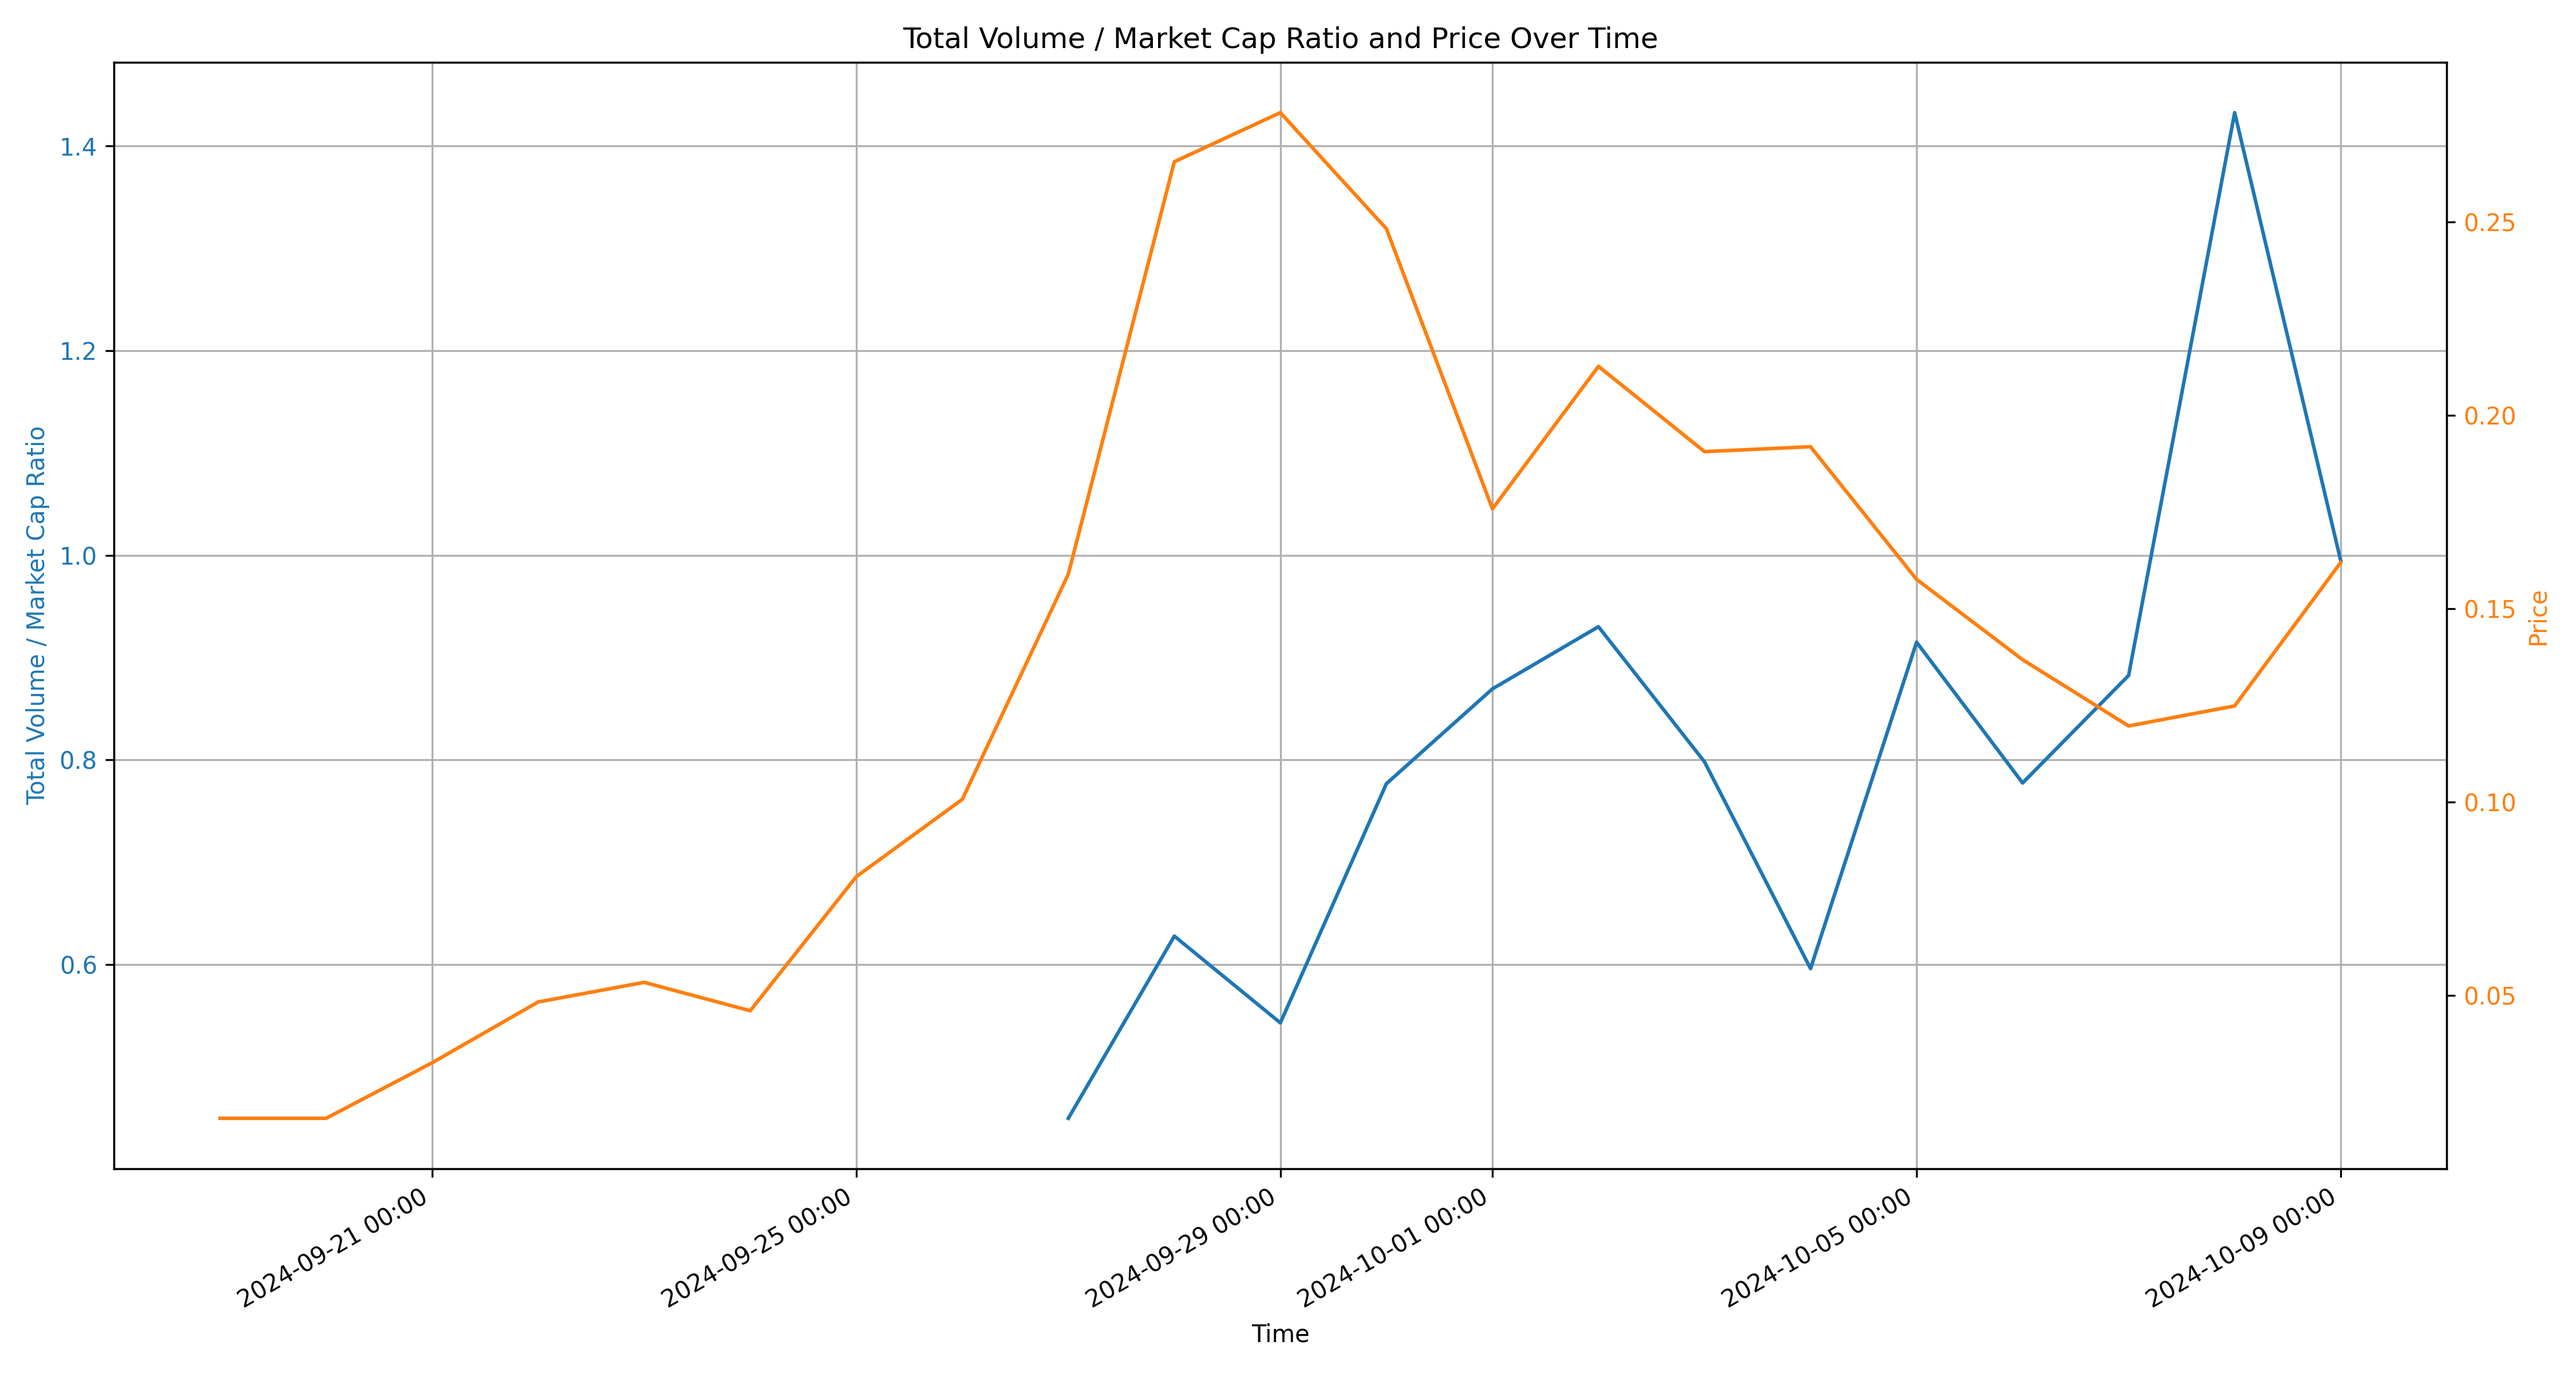
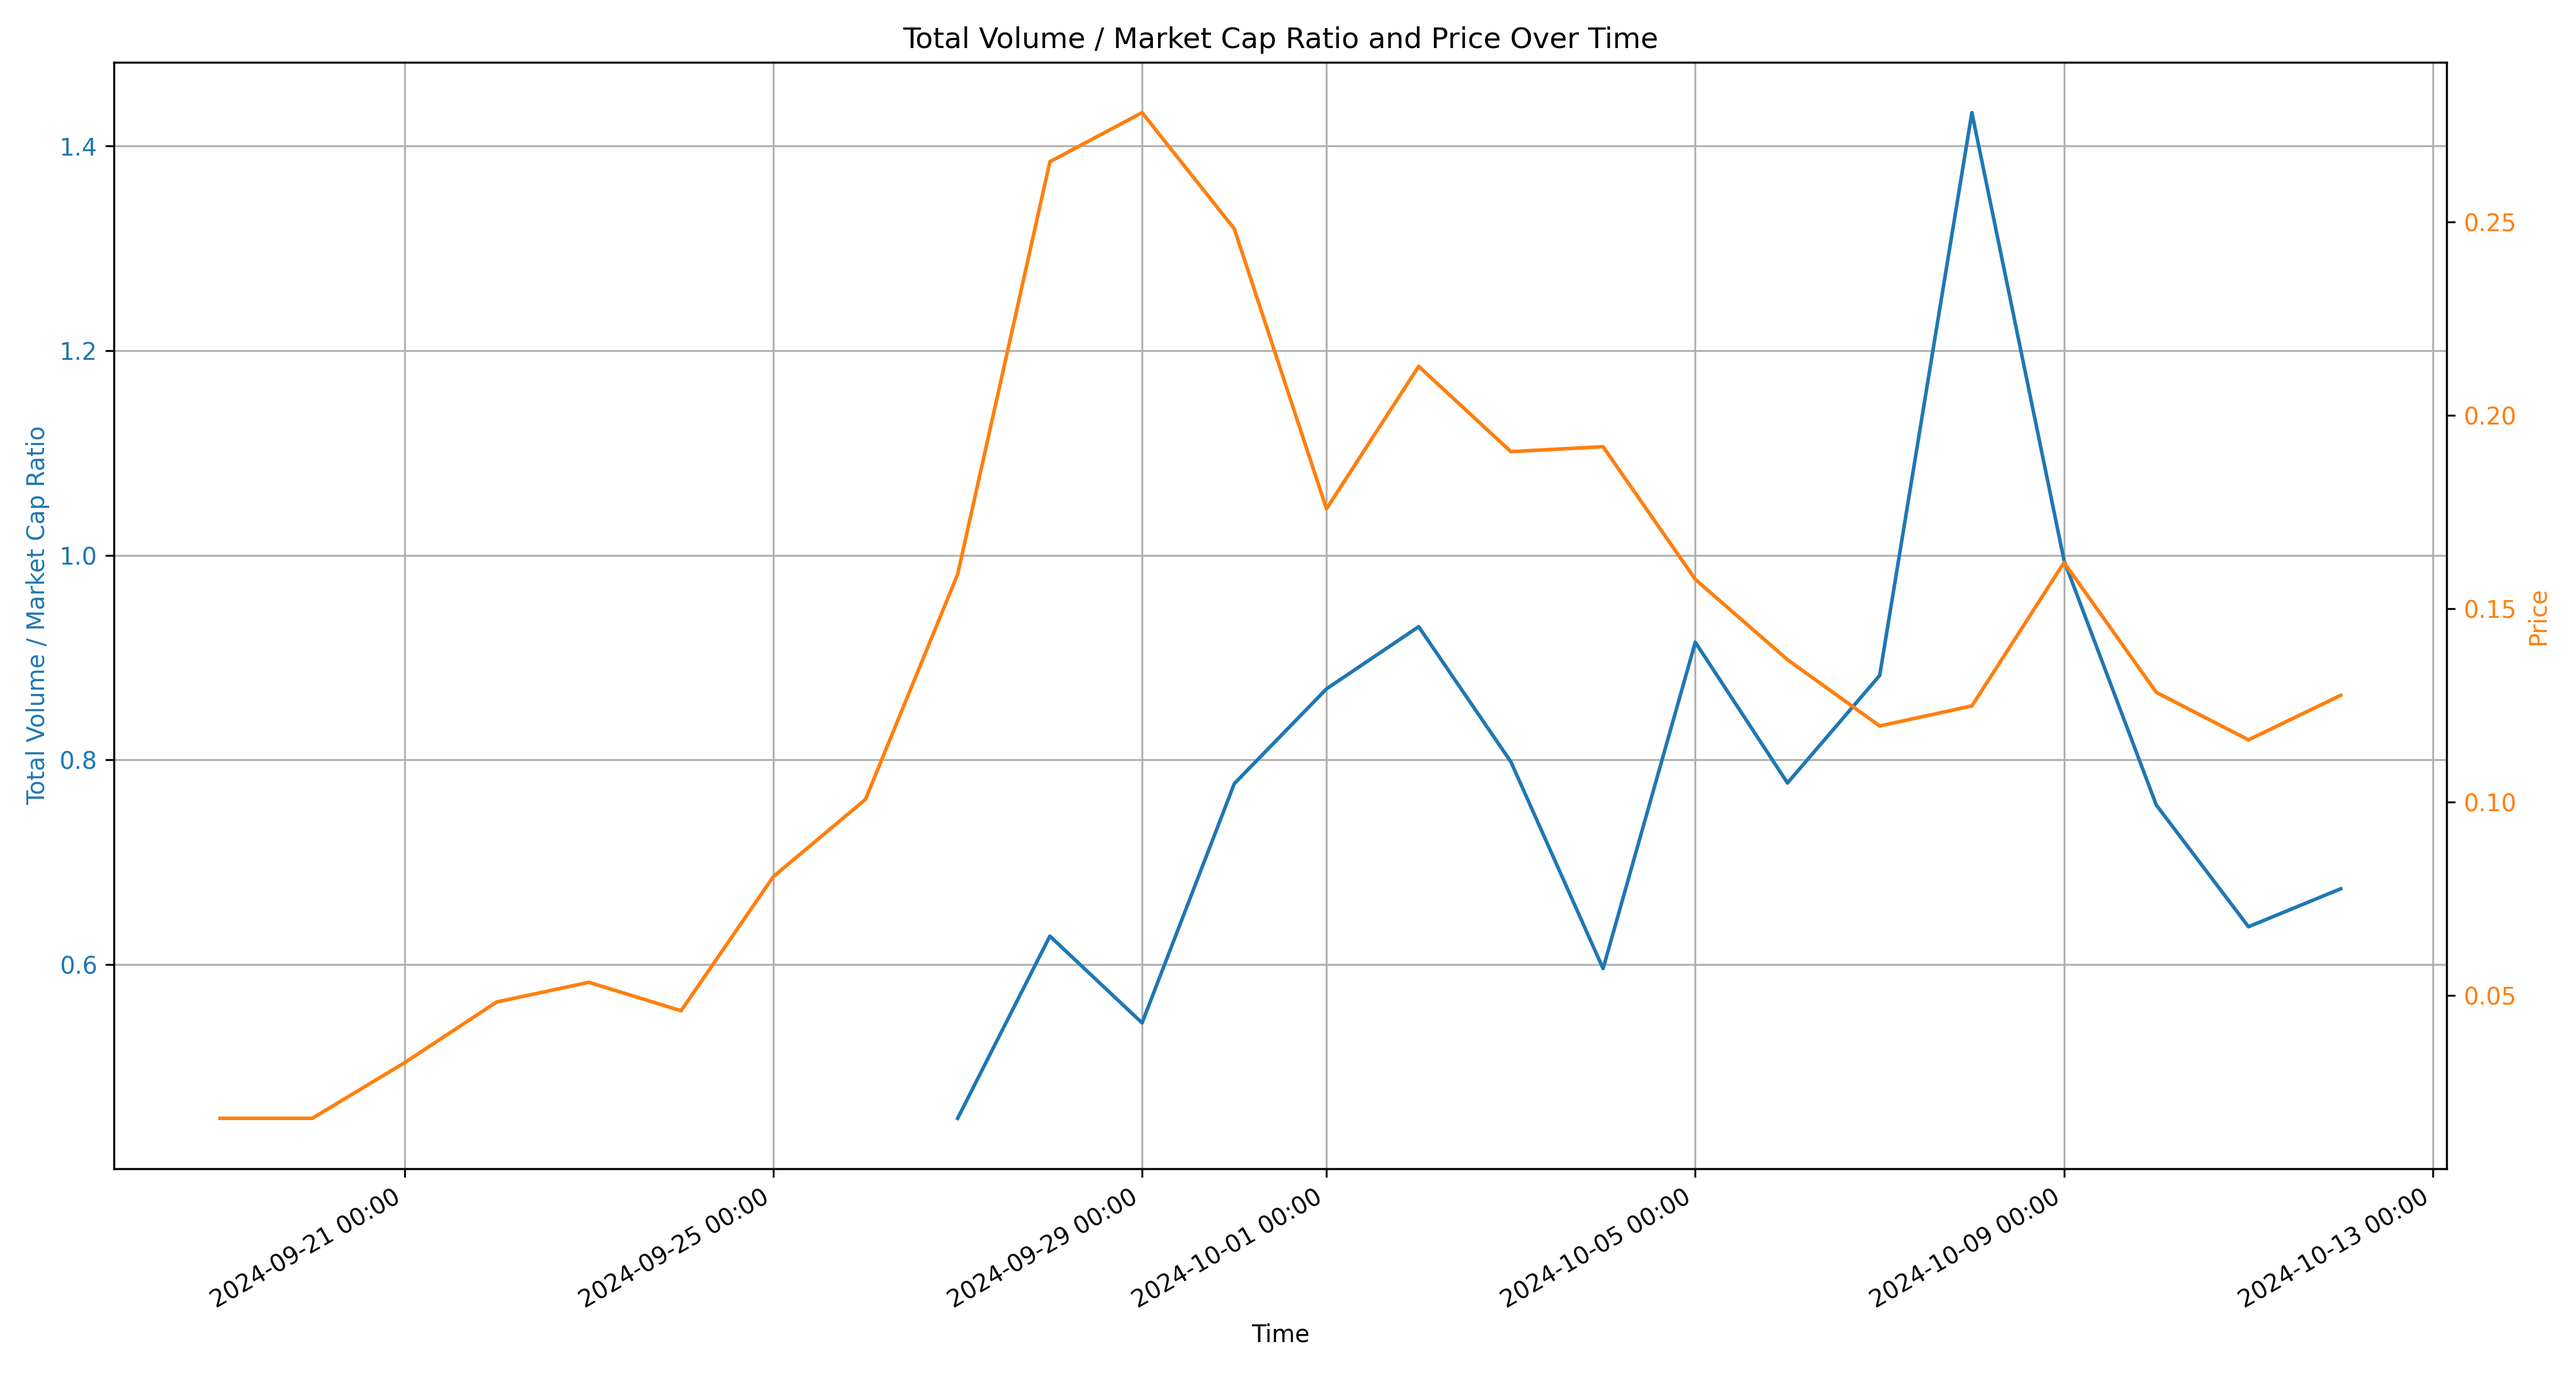
update

diff --git a/main.py b/main.py
@@ -16,45 +16,55 @@ def plot_data(input_file):
     # Calculate the ratio of total_volume to market_cap
     df["ratio"] = df["total_volume"] / df["market_cap"]
 
-    # Create the figure and axis objects
-    fig, ax1 = plt.subplots(figsize=(15, 8))
+    # Calculate 20-day and 50-day Simple Moving Averages
+    df["SMA20"] = df["price"].rolling(window=20).mean()
+    df["SMA50"] = df["price"].rolling(window=50).mean()
 
-    # Plot ratio on the left y-axis
+    # Create the figure and axis objects
+    fig, (ax1, ax2, ax3) = plt.subplots(3, 1, figsize=(15, 20), sharex=True)
+
+    # Plot ratio on the first subplot
     color = "tab:blue"
-    ax1.set_xlabel("Time")
     ax1.set_ylabel("Total Volume / Market Cap Ratio", color=color)
     ax1.plot(df["snapped_at"], df["ratio"], color=color)
     ax1.tick_params(axis="y", labelcolor=color)
+    ax1.grid(True)
+    ax1.set_title("Total Volume / Market Cap Ratio Over Time")
 
-    # Create a second y-axis for price
-    ax2 = ax1.twinx()
-    color = "tab:orange"
-    ax2.set_ylabel("Price", color=color)
-    ax2.plot(df["snapped_at"], df["price"], color=color)
-    ax2.tick_params(axis="y", labelcolor=color)
+    # Plot price and SMAs on the second subplot
+    ax2.set_ylabel("Price")
+    ax2.plot(df["snapped_at"], df["price"], color="tab:orange", label="Price")
+    ax2.plot(df["snapped_at"], df["SMA20"], color="tab:red", label="20-day SMA")
+    ax2.plot(df["snapped_at"], df["SMA50"], color="tab:green", label="50-day SMA")
+    ax2.tick_params(axis="y")
+    ax2.grid(True)
+    ax2.legend()
+    ax2.set_title("Price and Moving Averages Over Time")
+
+    # Plot volume on the third subplot
+    ax3.set_xlabel("Time")
+    ax3.set_ylabel("Volume")
+    ax3.bar(df["snapped_at"], df["total_volume"], color="tab:purple", alpha=0.7)
+    ax3.tick_params(axis="y")
+    ax3.grid(True)
+    ax3.set_title("Trading Volume Over Time")
 
     # Set x-axis format
-    ax1.xaxis.set_major_formatter(mdates.DateFormatter("%Y-%m-%d %H:%M"))
-    ax1.xaxis.set_major_locator(mdates.AutoDateLocator())
+    ax3.xaxis.set_major_formatter(mdates.DateFormatter("%Y-%m-%d"))
+    ax3.xaxis.set_major_locator(mdates.AutoDateLocator())
 
     # Rotate and align the tick labels so they look better
     fig.autofmt_xdate()
-
-    # Add title
-    plt.title("Total Volume / Market Cap Ratio and Price Over Time")
-
-    # Add grid
-    ax1.grid(True)
 
     # Adjust layout to prevent clipping of tick-labels
     plt.tight_layout()
 
     # Generate output file name
-    output_file = f"{os.path.splitext(input_file)[0]}_chart.png"
+    output_file = f"{os.path.splitext(input_file)[0]}_advanced_chart.png"
 
     # Save the figure
     plt.savefig(output_file, dpi=300)
-    print(f"Chart saved as {output_file}")
+    print(f"Advanced chart saved as {output_file}")
 
     # Show the plot
     plt.show()
